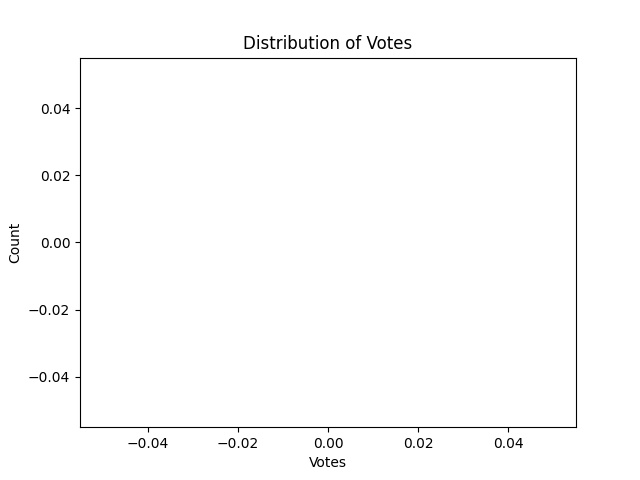
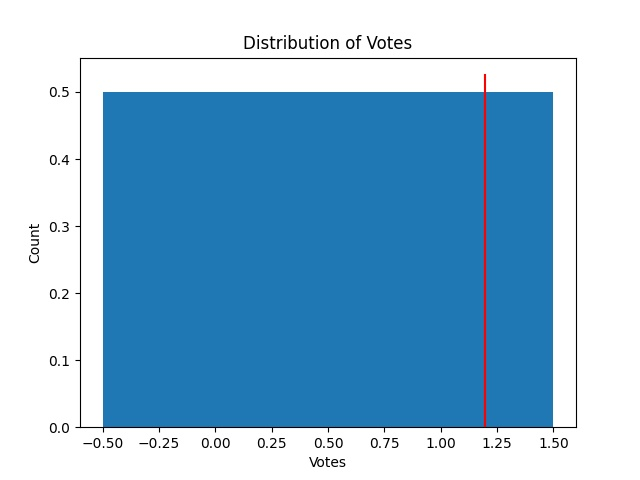
polls

diff --git a/HelpFunctions.py b/HelpFunctions.py
@@ -93,7 +93,7 @@ DEFAULTCOLS = 5
 DEFAULTROWS = 2
 DEFAULTSELECTIVITY = -1
 DEFAULTIMMUNITYSCALE = 1
-DEFAULTPROBABILITY = 2
+DEFAULTPROBABILITY = 1
 
 def createImageDefault(contestants,contestantUrls):
     '''
@@ -184,10 +184,10 @@ def endRound(dbURL, guild, votes, contestants, roundNum):
     '''
     print(contestants)
     print(votes)
-    immprob = calculateRoundDefault(votes, roundNum)
+    immprob = calculateRoundDefault(contestants,votes, roundNum)
     print(immprob)
-    immunities = list(immprob[0])
-    probabilities = list(immprob[1])
+    immunities = immprob[0]
+    probabilities = immprob[1]
     barFig,distFig = generatePlots(contestants, votes)
     baseDir = os.path.dirname(__file__)
     imgPath1 = os.path.join(baseDir, 'plot1.jpg')
@@ -301,32 +301,36 @@ def createImage(baseDir,names, urls, iconNums,targetHeight,numCol,pad,offset):
 def calculateRound(contestants,votes,probOffset,immunityScale,selectivity,roundNum):
     '''
         Calculates immunities and probabilities for a round
-    '''
+    ''' 
+    print(contestants)
+    print(votes)   
+    ones=np.ones(len(votes))
     arr=np.array(votes)
     con=np.array(contestants)
     print(arr)
     X=arr[arr!=0]
     print(X)
-    if (len(X)==0):
-        imm=zeros(len(arr))
-        prob=zeros(len(arr))
+    if len(X)==0:
+        print('ZERO')
+        imm=-1*np.ones(len(arr))
+        prob=np.zeros(len(arr))
         elim=con
         return (imm,prob,elim)
 
     mean = np.mean(X)
-    dev = np.std(X)
-
-
-    ones=np.ones(len(votes))
+    dev = np.std(X)    
     marr=mean*ones
     sarr=dev*ones
 
     elim=con[votes<marr+selectivity*sarr]
 
+    if dev == 0:
+        imm = np.zeros(len(votes))
+    else:
+        imm=np.floor(immunityScale*((arr-marr)/sarr-selectivity))
 
-    prob=ones/(probOffset+arr)
-    imm=np.floor(immunityScale*((arr-marr)/sarr-selectivity))
-
+    prob=ones/(1+probOffset+arr)
+    
     #Eliminate zero votes
     imm[arr==0]=-1
     #set prob to 0 for all ejected
@@ -362,8 +366,10 @@ def generateRound(immunities,probabilities,roundNum,roundSize):
     return picks
 
 def generatePlots(options, votes):
-    votes=np.array(votes);
-    cut=np.mean(votes[votes>0])-np.std(votes[votes>0])
+    votes=np.array(votes)
+    cut=0
+    if len(votes[votes>0])!=0 :
+        cut=np.mean(votes[votes>0])-np.std(votes[votes>0])
 
     barFig=plt.figure()
     plt.bar(options,votes)
@@ -374,7 +380,7 @@ def generatePlots(options, votes):
 
     distFig=plt.figure()
     plt.hist(votes,np.array(range(np.max(votes)+1))-0.5,None,True)
-    plt.plot(np.array([cut,cut]),plt.gca().get_ylim(),'r-');
+    plt.plot(np.array([cut,cut]),plt.gca().get_ylim(),'r-')
     plt.xlabel('Votes')
     plt.ylabel('Count')
     plt.title('Distribution of Votes')

diff --git a/HeadPatBot.py b/HeadPatBot.py
@@ -203,10 +203,11 @@ async def handleWaifuEndPoll(message, args):
             rString = f'1\N{COMBINING ENCLOSING KEYCAP}'
             count = 0
             #await message.add_reaction(emoji)
-            for r in message.reactions:
+            for r in poll.reactions:
                 if r.emoji[0] == str(i):
                     count = r.count - (1 if r.me else 0)
             votes.append(count)
+        print(votes)
         hf.endRound(DATABASE_HOST, message.guild.id, votes, roundValues[0], roundNum)
         await message.reply('I present to you, the results', files = [discord.File('plot1.jpg'), discord.File('plot2.jpg')])
 
